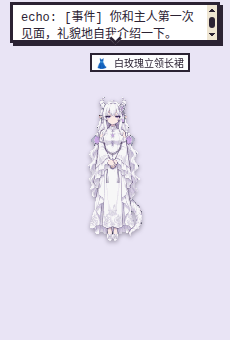
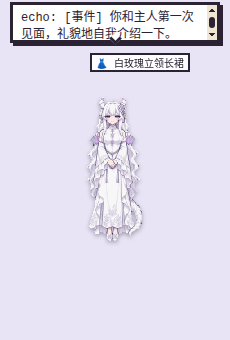
🎨 feat(art): 大肥鱼's pixel pack at the same adult proportions as the other model-chan
- Redraw dafeiyu-pixel with GPT Image 2.5 from ai-chan-sheets 03_DeepSeek娘_鲸鱼娘 (covered
  shoulders), at the proportions of Claude/Grok/Gemini/GPT; the chibi look stays with her
  optional dsh-pet clips. Title and texts no longer call her pixel version Q 版.
- slice_sheet.py crops each action with its own box and stands it on the cell floor, so no
  frame floats above the taskbar; all five packs rebuilt.
- build_model_chan_pack.py keeps a hand-written pack description.

diff --git a/scripts/art/model_chan_prompts.py b/scripts/art/model_chan_prompts.py
@@ -4,7 +4,9 @@
 # Two generated sheets per character, both 4 columns x 4 rows = 8 actions x 2 frames:
 #   <id>_base  -> the 8 actions every sprite pack has (same order as pixel_prompts.py / build_pixel_pack.py)
 #   <id>_extra -> the 8 states only DeepSeek's video clips had (look, sad, hungry, eat_cookie, eat_fruit, play, hatch, evolve)
-# Dafeiyu (DeepSeek) is the pixel version of her existing chibi maid look from dsh-pet.
+# Dafeiyu (DeepSeek): her chibi (Q) look stays with the dsh-pet clips; her pixel pack is drawn at the same
+# adult proportions as the other model-chan (2026-10-29: the chibi pixel version did not match them), from
+# ai-chan-sheets 设定图/03_DeepSeek娘_鲸鱼娘 with covered shoulders.
 # Identity anchors are condensed from lmy414/ai-chan-sheets 设定图/<char>/提示词/A01 (CC BY-NC-SA 4.0), after the
 # original designs by ZipZipPipe; outfits are made modest per docs/pet-packs.md "内容要求" (Gemini's crop top,
 # shorts and thigh band become a covered top, a long skirt and opaque tights; GPT's bare shoulders, thigh slit,
@@ -14,10 +16,13 @@ sys.path.insert(0, __file__.rsplit('/', 1)[0])
 from pixel_prompts import STYLE, SAFE, BG, ROWS as BASE_ROWS
 
 CHARS = {
- "dafeiyu": ("Dafeiyu, the DeepSeek whale-girl maid, kept in her original chibi (Q-version, super-deformed, about 3 heads tall) look from the dsh-pet desktop pet; "
-             "she is an adult character drawn in cute SD style: long deep-blue hair fading to light blue at the tips with a ring-shaped ahoge, big blue eyes, small blue whale-fin ears and a small chubby blue whale tail behind her, "
-             "a white maid headdress, a long-sleeved deep navy maid dress with a white apron embroidered with a tiny blue whale at the lower right, white tights and black Mary Jane shoes. "
-             "Colours: deep navy, white, light blue and a touch of pale gold only"),
+ "dafeiyu": ("Dafeiyu, an adult woman personifying DeepSeek as a gentle whale-girl maid: very long, voluminous, wavy deep-blue hair reaching her thighs, fading to light blue at the tips with light blue streaks, "
+             "one thin ring-shaped ahoge curling up on top, big soft blue eyes, a calm sweet smile, and on each side of her head a deep-blue whale-fin ear with a pale blue sheen, white feathery fin edges and a small blue ribbon bow at its root. "
+             "A white frilled maid headdress with white lace ribbons. She wears a long-sleeved white blouse with covered shoulders and puffed upper sleeves, lace cuffs, a small black bow tie with a blue gem at the throat, "
+             "a deep navy fitted bodice with gold buttons and gold piping, a white frilled apron with a tiny blue whale embroidered at its lower right, "
+             "and an ankle-length layered skirt: a deep navy outer skirt with pale gold vine embroidery and small dark bows, a blue-and-white pinstriped middle layer and a white ruffled petticoat hem. "
+             "A deep-blue whale tail with a forked fluke behind her. Opaque white tights and deep navy Mary Jane shoes with a strap and small gold buckle. "
+             "Colours: deep navy, blue, light blue, white and a touch of pale gold only"),
  "claude": ("Claude-chan, an adult woman personifying the Claude AI: very long bright orange hair reaching her knees with soft spiral curls at the tips, "
             "a large orange many-petalled chrysanthemum flower ornament with a small black ribbon on the right side of her head, calm sleepy amber-gold drooping eyes, gentle quiet expression. "
             "She wears a cream-white high-collared blouse with a ruffled stand-up collar, a wide black satin bow tie with an orange flower brooch, a short cream-white shoulder capelet with thin gold trim, "
@@ -50,18 +55,13 @@ EXTRA_ROWS = [
     "Row 4: making her entrance, rising from a crouch inside a burst of sparkles (frame 1 crouching, frame 2 standing with arms open); then a light swaying happy dance, leaning left then right (2 frames).",
 ]
 
-# Dafeiyu keeps her chibi maid look (the one exception to "adult proportions"), so her style lines drop
-# the adult-proportion clause and keep the modesty one.
-SD_STYLE = STYLE.replace("full body from head to feet", "full body from head to feet in chibi proportions")
-SD_SAFE = "Fully covered and modest maid outfit with a high neckline and long skirt, nothing revealing."
-
 GRID = "A grid of exactly 4 columns and 4 rows (16 cells)"
 HALF_GRID = "A grid of exactly 4 columns and 2 rows (8 cells), each cell a tall portrait-shaped box"
 
 def jobs(halves=False):
     out = []
     for cid, desc in CHARS.items():
-        style, safe = (SD_STYLE, SD_SAFE) if cid == "dafeiyu" else (STYLE, SAFE)
+        style, safe = STYLE, SAFE
         assert GRID in style
         for sheet, rows in (("base", BASE_ROWS), ("extra", EXTRA_ROWS)):
             if not halves:

diff --git a/scripts/art/slice_sheet.py b/scripts/art/slice_sheet.py
@@ -2,6 +2,9 @@
 # usage: slice.py <sheet.png> <out.png> <cols> <rows> <figure_height_px> [--octree] [--max WxH]
 #   --key green: the sheet was generated on pure green (#00FF00) instead of magenta, for a character whose
 #   colours are close to magenta (Gemini's pink-violet hair tips get keyed out on magenta)
+#   --shared-box: crop every cell with one box for the whole sheet (the old behaviour). By default each action
+#   (two neighbouring cells, the model-chan layout) gets its own box and stands on the bottom of its cell, so a
+#   figure drawn lower in one cell does not leave the standing frames floating above the floor.
 #   --max WxH: scale down further when needed so a frame fits a W x H cell (fit_cells.py then only centres it)
 #   --octree: build the palette with fast octree instead of median cut, for a near-white character (GPT):
 #   median cut spends every colour on her whites and lavenders and maps small props (watermelon, cookie)
@@ -15,7 +18,8 @@ import numpy as np
 from PIL import Image, ImageFilter
 
 octree = '--octree' in sys.argv
-argv = [x for x in sys.argv if x != '--octree']
+shared_box = '--shared-box' in sys.argv
+argv = [x for x in sys.argv if x not in ('--octree', '--shared-box')]
 green = False
 if '--key' in argv:
     i = argv.index('--key')
@@ -95,24 +99,40 @@ for j in range(rows):
         cells.append((c, fg))
         boxes.append((xs.min(), ys.min(), xs.max() + 1, ys.max() + 1) if len(xs) else None)
 valid = [b for b in boxes if b]
-box = (min(b[0] for b in valid), min(b[1] for b in valid), max(b[2] for b in valid), max(b[3] for b in valid))
+union = lambda bs: (min(b[0] for b in bs), min(b[1] for b in bs), max(b[2] for b in bs), max(b[3] for b in bs))
+# the crop box of every cell: one for the sheet, or one per action (its two frames keep their relative motion)
+group = len(boxes) if shared_box else 2
+cell_box = []
+for g in range(0, len(boxes), group):
+    bs = [b for b in boxes[g:g + group] if b]
+    cell_box += [union(bs) if bs else None] * len(boxes[g:g + group])
 # scale so a typical standing figure (median height) becomes fig_h pixels tall
 med_h = sorted(b[3] - b[1] for b in valid)[len(valid) // 2]
 s = fig_h / med_h
-if max_wh: s = min(s, max_wh[0] / (box[2] - box[0]), max_wh[1] / (box[3] - box[1]))
-out_w, out_h = max(1, round((box[2] - box[0]) * s)), max(1, round((box[3] - box[1]) * s))
+big_w = max(b[2] - b[0] for b in cell_box if b)
+big_h = max(b[3] - b[1] for b in cell_box if b)
+if max_wh: s = min(s, max_wh[0] / big_w, max_wh[1] / big_h)
+out_w, out_h = max(1, round(big_w * s)), max(1, round(big_h * s))
 frames = []
-for c, fg in cells:
+for (c, fg), box in zip(cells, cell_box):
+    if box is None:
+        frames.append((Image.new('RGB', (out_w, out_h)), Image.new('L', (out_w, out_h), 0)))
+        continue
+    w, h = max(1, round((box[2] - box[0]) * s)), max(1, round((box[3] - box[1]) * s))
     px = np.asarray(c)
     # green-screen spill: nothing on a green-keyed character is green, so green never exceeds red or blue
     if green: px = np.dstack([px[..., 0], np.minimum(px[..., 1], np.maximum(px[..., 0], px[..., 2])), px[..., 2]])
     rgba = np.dstack([px, (fg * 255).astype(np.uint8)])
     f = Image.fromarray(rgba, 'RGBA').crop(box)
-    rgb = f.convert('RGB').resize((out_w, out_h), Image.BOX)
-    a = f.getchannel('A').resize((out_w, out_h), Image.BOX).point(lambda v: 255 if v >= 128 else 0)
+    rgb = f.convert('RGB').resize((w, h), Image.BOX)
+    a = f.getchannel('A').resize((w, h), Image.BOX).point(lambda v: 255 if v >= 128 else 0)
     # strand-thin hair breaks up into specks and pinholes at this size: a 3 x 3 majority smooths the outline
     a = a.filter(ImageFilter.MedianFilter(3))
-    frames.append((rgb, a))
+    # centred, standing on the bottom of the cell
+    at = ((out_w - w) // 2, out_h - h)
+    full_rgb, full_a = Image.new('RGB', (out_w, out_h)), Image.new('L', (out_w, out_h), 0)
+    full_rgb.paste(rgb, at); full_a.paste(a, at)
+    frames.append((full_rgb, full_a))
 # one palette for the whole sheet keeps colours steady between frames (64: a 166 x 226 frame has room for
 # small accents such as gold trim and two-coloured eyes, which 40 colours merged away)
 strip = Image.new('RGB', (out_w * len(frames), out_h))

diff --git a/scripts/art/build_model_chan_pack.py b/scripts/art/build_model_chan_pack.py
@@ -34,6 +34,9 @@ manifest = {
     'species': cid, 'kind': 'sprites', 'pixelated': True, 'frame': {'width': FW, 'height': FH},
     'actions': actions, 'outfits': {'daily': 'sheets/daily.png'},
 }
+# a description written by hand in an existing pack.json is kept
+old = os.path.join(dst, 'pack.json')
+if os.path.exists(old): manifest['description'] = json.load(open(old)).get('description') or manifest['description']
 with open(os.path.join(dst, 'pack.json'), 'w') as f:
     json.dump(manifest, f, ensure_ascii=False, indent=2); f.write('\n')
 print(dst, 'ok')

diff --git a/NOTICE.md b/NOTICE.md
@@ -19,13 +19,13 @@ The companions are fan characters themed on AI model vendors. **None of them is 
 - **克洛蒂 (Claude 娘) and 格萝可 (Grok 娘)** — `packs/claude-pixel/`, `packs/grok-pixel/`. Identity anchors (hair, palette, outfit, motifs, theme colour) from [lmy414/ai-chan-sheets](https://github.com/lmy414/ai-chan-sheets) `设定图/11_Claude娘_Anthropic` and `设定图/09_Grok娘_xAI` (**CC BY-NC-SA 4.0**); original designs by ZipZipPipe, 《AI娘化》 ([Pixiv 148186519](https://www.pixiv.net/artworks/148186519); the author allows use with attribution, **no commercial use**). The sprite sheets were generated from text prompts with OpenAI `gpt-image-2.5-sunburst` through LobeHub (`lh generate image`) and turned into pixel art by `scripts/art/` (prompts in `scripts/art/model_chan_prompts.py`); no image from ai-chan-sheets' unlicensed `参考原图/` folder was used. Both are drawn with adult proportions; Grok's revealing details (off-shoulder dress, sheer tights, thigh band) were replaced with a high-necked gown and opaque tights, and no X logo or lettering is drawn.
 - **杰米 (Gemini 娘)** — `packs/gemini-pixel/`, added 2026-10-29 the same way: identity anchors from ai-chan-sheets `设定图/10_Gemini娘` (**CC BY-NC-SA 4.0**), original design by ZipZipPipe (《AI娘化》 p04, attribution, **no commercial use**); sprite sheets generated from text prompts with `gpt-image-2.5-sunburst` (prompts `gemini_base` / `gemini_extra` in `scripts/art/model_chan_prompts.py`) and pixelated by `scripts/art/` (generated on a green key, `--key green`, since her pink-violet hair is too close to magenta). Drawn with adult proportions; the original crop top, shorts and thigh band were replaced with a high-necked top, an ankle-length skirt and opaque tights. The four-pointed star is used only as a pattern; no Google logo or lettering is drawn.
 - **吉皮缇 (GPT 娘)** — `packs/gpt-pixel/`, added 2026-10-29 the same way: identity anchors from ai-chan-sheets `设定图/02_GPT娘_白龙娘` (**CC BY-NC-SA 4.0**), original design by ZipZipPipe (《AI娘化》 p03, attribution, **no commercial use**); sprite sheets generated from text prompts with `gpt-image-2.5-sunburst` (prompts `gpt_base` / `gpt_extra` in `scripts/art/model_chan_prompts.py`) and pixelated by `scripts/art/` (`slice_sheet.py --octree`, so her small props keep their colours next to the white figure). Drawn with adult proportions; the original's bare shoulders, thigh-high slit, thigh band and sheer overcoat were replaced with long sleeves, a closed ankle-length skirt and an opaque overcoat, and the wings were made small and folded. The white rosette knot is drawn as a cord ornament only; no OpenAI logo or lettering is drawn.
-- **大肥鱼 (Dafeiyu, DeepSeek 娘)** — besides the dsh-pet animations above, `packs/dafeiyu-pixel/` (her default look: a pixel version of the same chibi maid, redrawn from text prompts, not traced from the videos) depict the community character, so they keep its terms.
+- **大肥鱼 (Dafeiyu, DeepSeek 娘)** — besides the dsh-pet animations above, `packs/dafeiyu-pixel/` (her default look: the same whale-girl maid redrawn from text prompts at the adult proportions of the other model-chan, after ai-chan-sheets `设定图/03_DeepSeek娘_鲸鱼娘`, not traced from the videos) depict the community character, so they keep its terms.
 - **Memes (梗图).** `src/renderer/assets/memes/<character>/` holds each character's meme stickers. 大肥鱼's nine are from dsh-pet (terms above). 克洛蒂's, 格萝可's, 杰米's and 吉皮缇's (four each) were generated on 2026-10-29 with `gpt-image-2.5-sunburst` as one 2×2 sticker sheet per character from text prompts using the same identity anchors as their packs, then cut into WebP; they are **CC BY-NC-SA 4.0, non-commercial** like the packs.
 - **License of this art.** Everything in `src/renderer/packs/` is released under **CC BY-NC-SA 4.0**: attribution to ZipZipPipe (original designs), lmy414 (character sheets) and rdmclin2 (pixel art), **non-commercial only**, adaptations under the same license. The code stays MIT. Any build that contains these packs is for non-commercial use only; to use this project commercially, replace the characters with your own (a character file plus a pet pack each) and remove `src/renderer/assets/dafeiyu/`.
 - **Retired art.** The original companions (焰团, 泡鲸, 叶芽), their packs and the procedural spirit stones were removed with the model-chan roster; old saves are taken over by a current character (see `src/core/species.js`).
 - **App icon.** `build/icon.png` shows the three model-chan in pixel style; generated on 2026-10-29 with `gpt-image-2.5-sunburst` (prompt `logo` in `scripts/art/prompts.py`). It depicts the same fan characters, so it is **CC BY-NC-SA 4.0, non-commercial** like the packs. (The earlier icon showed a retired character and was replaced.)
 
-Content notes: every character's set age is 25+. Claude, Grok, Gemini and GPT are drawn with adult proportions; 大肥鱼 keeps the community character's chibi style and is therefore all-ages only, like the others. No picture shows nudity or underwear. Adult-rated outfits (maid, off-shoulder gown, retro swimsuit, silk robe) exist in the app but no current character has art for them or allows adult content, so they are never shown.
+Content notes: every character's set age is 25+. Claude, Grok, Gemini, GPT and 大肥鱼's pixel pack are drawn with adult proportions; 大肥鱼's pixel pack uses the same adult proportions; only her optional dsh-pet clips keep the community character's chibi style. All of them are all-ages only. No picture shows nudity or underwear. Adult-rated outfits (maid, off-shoulder gown, retro swimsuit, silk robe) exist in the app but no current character has art for them or allows adult content, so they are never shown.
 
 | id | 名称 | 解锁阶段 | 分级 | 美术 |
 | --- | --- | --- | --- | --- |

diff --git a/docs/characters.md b/docs/characters.md
@@ -12,7 +12,7 @@
 
 | # | 角色 | 厂商 / 模型 | id | 主题色 | 美术 | 服饰 |
 | --- | --- | --- | --- | --- | --- | --- |
-| 1 | **大肥鱼** Dafeiyu（DeepSeek 娘 · 鲸鱼女仆，Q 版） | DeepSeek / DeepSeek | `dafeiyu` | `#2C4A8A` | 像素包 `dafeiyu-pixel`（默认）；可换原版 21 段透明视频（dsh-pet） | 1 套：招牌女仆装 |
+| 1 | **大肥鱼** Dafeiyu（DeepSeek 娘 · 鲸鱼女仆） | DeepSeek / DeepSeek | `dafeiyu` | `#2C4A8A` | 像素包 `dafeiyu-pixel`（默认）；可换原版 Q 版 21 段透明视频（dsh-pet） | 1 套：招牌女仆装 |
 | 2 | **克洛蒂** Clody（Claude 娘 · 橘发菊纹） | Anthropic / Claude | `claude` | `#C4622D` | 像素包 `claude-pixel`（16 个动作） | 1 套：橘白哥特长裙 |
 | 3 | **格萝可** Groko（Grok 娘 · 黑金吸血鬼） | xAI / Grok | `grok` | `#8E1F33` | 像素包 `grok-pixel`（16 个动作） | 1 套：黑金哥特礼服 |
 | 4 | **杰米** Gemi（Gemini 娘 · 四角星猫耳） | Google / Gemini | `gemini` | `#7B5CD6` | 像素包 `gemini-pixel`（16 个动作） | 1 套：星纹宽袖外披 |
@@ -28,15 +28,15 @@
 
 每位角色下面的“桌面截图”是 `xvfb-run -a node e2e/run.js roster` 在真实 Electron 应用里唤醒她之后截的待机画面（e2e 用假 `lh`，所以气泡里是 `echo: …`；右上角是当前服饰名）。
 
-### 1. 大肥鱼（DeepSeek 娘）— 保留原 Q 版女仆装
+### 1. 大肥鱼（DeepSeek 娘）— 鲸鱼女仆
 
 | 项 | 内容 |
 | --- | --- |
 | 厂商 / 模型 | DeepSeek / DeepSeek |
-| 名称 / 称号 | 大肥鱼 Dafeiyu ·“DeepSeek 娘 · 鲸鱼女仆（Q 版）” |
-| 形象设定 | 约 3 头身的 Q 版鲸鱼娘：深蓝渐变浅蓝长发、环状呆毛、蓝色大眼、鲸鱼鳍耳和小尾鳍。懒洋洋、嘴硬、爱吃白饭，叫主人“鱼片”，口头禅“咕噜~”。唯一的 Q 版画风例外，永远只有全年龄内容 |
+| 名称 / 称号 | 大肥鱼 Dafeiyu ·“DeepSeek 娘 · 鲸鱼女仆” |
+| 形象设定 | 鲸鱼娘女仆：深蓝渐变浅蓝的及腿长发、环状呆毛、蓝色大眼、带蓝色小蝴蝶结的鲸鱼鳍耳、身后分叉的鲸鱼尾鳍。懒洋洋、嘴硬、爱吃白饭，叫主人“鱼片”，口头禅“咕噜~”。像素包和其他四位一样是成人比例；社区原版的 Q 版（约 3 头身）只保留在可选的原版动画里。只有全年龄内容 |
 | 主题色 | `#2C4A8A` 深海蓝（色板 `#2C4A8A` `#FFFFFF` `#6FA8E8` `#E8D6A0`） |
-| 服饰 | 招牌女仆装：深藏青长袖女仆装、白围裙、白色女仆头饰。原先的 8 套服饰立绘（针织围巾套装、休闲卫衣等）和她的 Q 版形象不搭，已经移除；旧存档里穿着这些服饰的会换回招牌女仆装 |
+| 服饰 | 招牌女仆装：白色泡泡袖衬衫（遮肩）、蓝宝石小领结、金扣深藏青束腰、右下角绣小鲸鱼的白围裙、深藏青外层 + 蓝白竖条纹中层 + 白荷叶边的及踝长裙、白色连裤袜、深藏青玛丽珍鞋。原先的 8 套服饰立绘（针织围巾套装、休闲卫衣等）和她的形象不搭，已经移除；旧存档里穿着这些服饰的会换回招牌女仆装 |
 | 美术 | 21 段透明 webm（`src/renderer/assets/dafeiyu/`：15 个基础状态 + 被拎起 `lifted`、走路 `walk`，以及点击回应变体 `pat_shy`、`pat_pout`、`pat_tickle`、`happy_jump`），在外观里选「大肥鱼 · 原版动画」时播放；默认是像素包 `dafeiyu-pixel`（166×226，16 个动作 × 2 帧） |
 | 梗图 / 朗读 | 9 张梗图（dsh-pet）；朗读音调 1.35、语速 1.0 |
 | 素材来源 / 生成方式 | 动画来自 [PC2005-cloud/dsh-pet](https://github.com/PC2005-cloud/dsh-pet)；形象是 DeepSeek 吉祥物的社区二创：原型「溟月」B站 @上善无形，女仆鲸鱼娘设计 B站 @ZipZipPipe，设定参考 ai-chan-sheets `03_DeepSeek娘_鲸鱼娘`。像素版由 **GPT Image 2.5**（`gpt-image-2.5-sunburst`，经 LobeHub）按文字提示词重画，没有逐帧描摹视频 |

diff --git a/art/model-chan/README.md b/art/model-chan/README.md
@@ -4,7 +4,7 @@
 
 | 角色 | 厂商 | 主题色 | 美术 | 素材位置 |
 | --- | --- | --- | --- | --- |
-| 大肥鱼（DeepSeek 娘，Q 版鲸鱼女仆） | DeepSeek | `#2C4A8A` | 默认是同一 Q 版女仆形象的像素版；原有透明视频（21 段：15 个基础状态 + 拎起、走路和 4 段点击回应变体）保留为可选外观 | `src/renderer/assets/dafeiyu/`、`src/renderer/packs/dafeiyu-pixel/` |
+| 大肥鱼（DeepSeek 娘，鲸鱼女仆） | DeepSeek | `#2C4A8A` | 默认是和其他四位同样成人比例的像素版（依 ai-chan-sheets `03_DeepSeek娘_鲸鱼娘` 重画）；Q 版只保留在原有透明视频（21 段：15 个基础状态 + 拎起、走路和 4 段点击回应变体）保留为可选外观 | `src/renderer/assets/dafeiyu/`、`src/renderer/packs/dafeiyu-pixel/` |
 | 克洛蒂（Claude 娘，橘发菊纹） | Anthropic | `#C4622D` | 像素精灵图 | `src/renderer/packs/claude-pixel/` |
 | 格萝可（Grok 娘，黑金吸血鬼） | xAI | `#8E1F33` | 像素精灵图 | `src/renderer/packs/grok-pixel/` |
 | 杰米（Gemini 娘，四角星猫耳；第二批，2026-10-29） | Google | `#7B5CD6` | 像素精灵图 | `src/renderer/packs/gemini-pixel/` |
@@ -36,5 +36,5 @@ python3 scripts/art/model_chan_preview.py art/model-chan/preview/model-chan-prev
 
 - 克洛蒂、格萝可的身份锚点（发型、配色、服饰、标志物、主题色）取自 [lmy414/ai-chan-sheets](https://github.com/lmy414/ai-chan-sheets) 的 `设定图/11_Claude娘_Anthropic`、`设定图/09_Grok娘_xAI`、`设定图/10_Gemini娘`、`设定图/02_GPT娘_白龙娘`（CC BY-NC-SA 4.0）；原始形象设计来自 ZipZipPipe《AI娘化》（[Pixiv 148186519](https://www.pixiv.net/artworks/148186519)，作者声明：可取用，需署名，不可商用）。像素图由 gpt-image-2.5 按文字提示词重新生成，没有使用 ai-chan-sheets `参考原图/` 下的未授权原图。
 - 为符合 `docs/pet-packs.md` 的内容要求，四人都按成年比例绘制；吉皮缇把原设的露肩、高开衩、腿环和半透明罩衣改成了长袖、闭合的及踝长裙和不透明长罩衣，龙翼画小并收拢，白玫瑰绳结只作饰物，不画 OpenAI 标志；杰米把原设的露脐上衣、短裤和腿环改成了高领上衣、及踝长裙和不透明连裤袜，四角星只作纹样，不画 Google 标志；格萝可把原设的露肩礼服、透肉连裤袜和腿环改成了高领礼服和不透明连裤袜，像素图里不画 X 战斧和 X 字样。
-- 大肥鱼沿用 [PC2005-cloud/dsh-pet](https://github.com/PC2005-cloud/dsh-pet) 的视频，授权见 `src/renderer/assets/dafeiyu/NOTICE.md`。`dafeiyu-pixel` 同样由 gpt-image-2.5 按文字提示词重画，不是从视频逐帧描摹；形象（Q 版鲸鱼女仆）沿用 dsh-pet 与 ai-chan-sheets `03_DeepSeek娘_鲸鱼娘`（基于 上善无形 原创角色「溟月」，CC BY-NC-SA 4.0）。
+- 大肥鱼沿用 [PC2005-cloud/dsh-pet](https://github.com/PC2005-cloud/dsh-pet) 的视频，授权见 `src/renderer/assets/dafeiyu/NOTICE.md`。`dafeiyu-pixel` 同样由 gpt-image-2.5 按文字提示词重画，不是从视频逐帧描摹，2026-10-29 起改为和其他四位一样的成人比例；形象（鲸鱼女仆）沿用 dsh-pet 与 ai-chan-sheets `03_DeepSeek娘_鲸鱼娘`（基于 上善无形 原创角色「溟月」，CC BY-NC-SA 4.0）。
 - 因此这些像素包以 **CC BY-NC-SA 4.0** 发布：署名 ZipZipPipe（原设）、lmy414（设定补全）、rdmclin2（像素化）；**禁止商用**；改编作品须以相同协议发布。代码仍按仓库的 MIT 授权。

diff --git a/README.md b/README.md
@@ -18,7 +18,7 @@
 
 | 角色 | 厂商 | 主题色 | 美术 | 服饰 |
 |---|---|---|---|---|
-| 大肥鱼（DeepSeek 娘 · Q 版鲸鱼女仆） | DeepSeek | `#2C4A8A` | 像素包 `dafeiyu-pixel`（默认，和其他角色同一画风）；可在“外观”里换成原版 21 段透明视频（dsh-pet，含拖拽、走路和 5 种点击回应） | 招牌女仆装 |
+| 大肥鱼（DeepSeek 娘 · 鲸鱼女仆） | DeepSeek | `#2C4A8A` | 像素包 `dafeiyu-pixel`（默认，和其他角色同一画风和比例）；可在“外观”里换成原版 Q 版 21 段透明视频（dsh-pet，含拖拽、走路和 5 种点击回应） | 招牌女仆装 |
 | 克洛蒂（Claude 娘 · 橘发菊纹） | Anthropic | `#C4622D` | 像素包 `claude-pixel`（16 个动作） | 橘白哥特长裙 |
 | 格萝可（Grok 娘 · 黑金吸血鬼） | xAI | `#8E1F33` | 像素包 `grok-pixel`（16 个动作） | 黑金哥特礼服 |
 | 杰米（Gemini 娘 · 四角星猫耳） | Google | `#7B5CD6` | 像素包 `gemini-pixel`（16 个动作） | 星纹宽袖外披 |

diff --git a/docs/pet-packs.md b/docs/pet-packs.md
@@ -69,7 +69,7 @@ my-grok/
 
 ## 内容要求
 
-所有角色都必须是成年人（设定年龄 25 岁以上；除大肥鱼保留社区原版的 Q 版画风外，都用成人比例，不是 Q 版或幼态）；不得出现裸露、内衣或露骨内容。成人向服饰的图也只能是风格上的变化，参见 `docs/compliance-review.md`。导入的角色包会标注“内容由作者负责”；上架市场前会按同样的标准审核。
+所有角色都必须是成年人（设定年龄 25 岁以上；角色包都用成人比例，不是 Q 版或幼态；只有大肥鱼可选的原版 dsh-pet 动画保留社区原版的 Q 版画风）；不得出现裸露、内衣或露骨内容。成人向服饰的图也只能是风格上的变化，参见 `docs/compliance-review.md`。导入的角色包会标注“内容由作者负责”；上架市场前会按同样的标准审核。
 
 ## 自己做一个像素角色包
 
